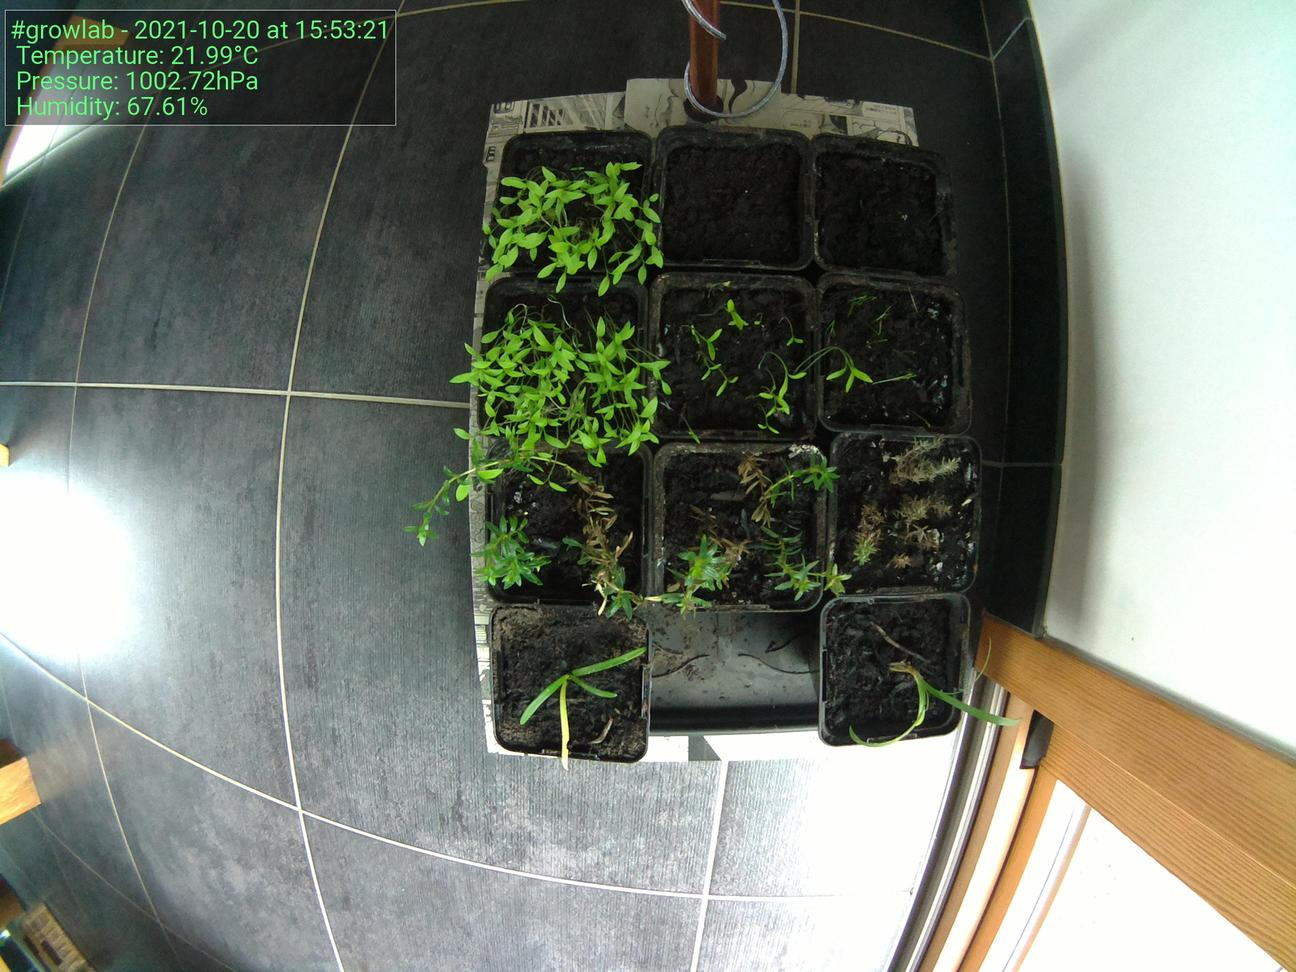
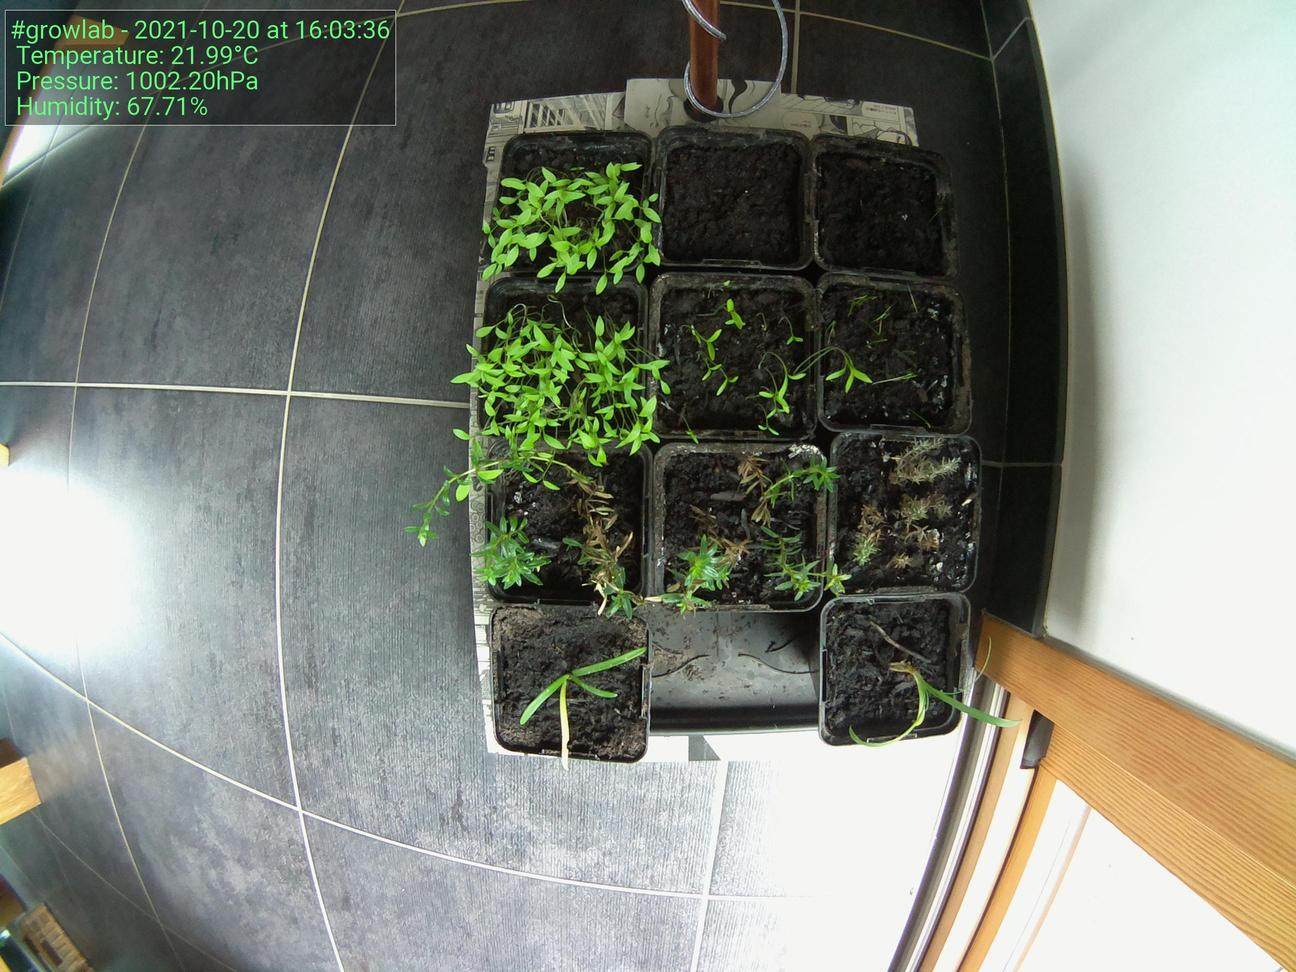
Update images at Wed 20 Oct 16:03:45 CEST 2021

diff --git a/docs/index.html b/docs/index.html
@@ -52,7 +52,7 @@
                             </tr>
                             <tr>
                                 <td>Time</td>
-                                <td>15:53:21</td>
+                                <td>16:03:36</td>
                             </tr>
                             <tr>
                                 <td>Temperature</td>
@@ -60,11 +60,11 @@
                             </tr>
                             <tr>
                                 <td>Humidity</td>
-                                <td>67.61%</td>
+                                <td>67.71%</td>
                             </tr>
                             <tr>
                                 <td>Pressure</td>
-                                <td>1002.72hPa</td>
+                                <td>1002.20hPa</td>
                             </tr>
                         </tbody>
                     </table>
@@ -72,7 +72,7 @@
 
                 <h5>Latest image</h5>
                 <div style="width: 85%;">
-                            <img class="figure-img img-fluid rounded" src="./preview.jpg?uid=1634738010.1255445">
+                            <img class="figure-img img-fluid rounded" src="./preview.jpg?uid=1634738625.175106">
                 </div>
             </div>
         </div>
